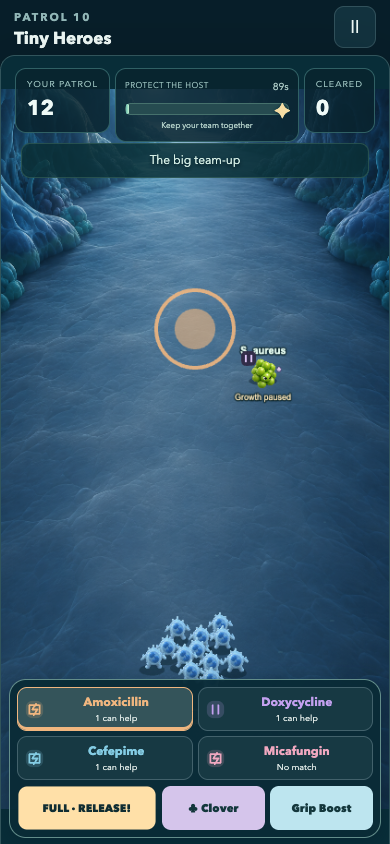
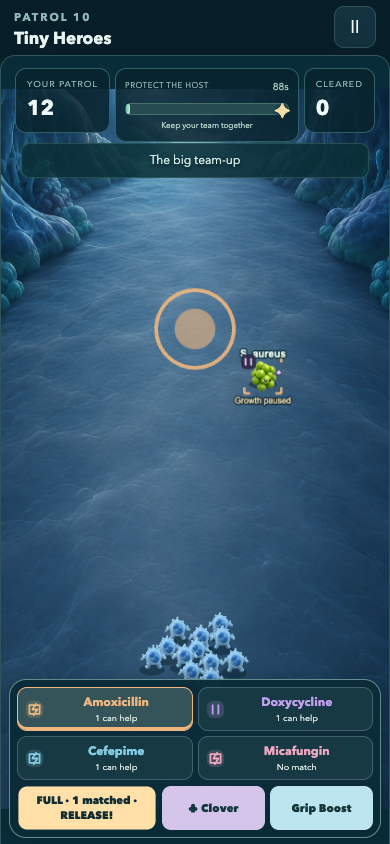
Preview medicine targets during charge in v0.3.4

Changed region(s): [[0.0923, 0.9242, 0.3385, 0.9858], [0.5846, 0.4005, 0.7692, 0.4929]]

diff --git a/src/game.ts b/src/game.ts
@@ -1,7 +1,7 @@
 import {rosterOption} from './roster';
 import * as Phaser from 'phaser';
 import { Patrol, BALANCE, type PatrolEvent } from './simulation';
-import { PATHOGENS, ANTIBODY_NAMES, medicineStyle } from './content';
+import { PATHOGENS, ANTIBODY_NAMES, medicineEffect, medicineStyle } from './content';
 
 
 
@@ -13,7 +13,7 @@ export interface GameHooks {
     gesture: () => void;
 }
 interface CellView { node: Phaser.GameObjects.Container; body: Phaser.GameObjects.Image; shadow: Phaser.GameObjects.Ellipse; digest: Phaser.GameObjects.Image; vesicle: Phaser.GameObjects.Graphics; membrane: Phaser.GameObjects.Graphics; birth: number }
-interface EnemyView { node: Phaser.GameObjects.Container; body: Phaser.GameObjects.Image; health: Phaser.GameObjects.Rectangle; tag: Phaser.GameObjects.Text; label: Phaser.GameObjects.Text; status: Phaser.GameObjects.Text; row: number; hitUntil: number; lastX: number; heading: number }
+interface EnemyView { preview: Phaser.GameObjects.Graphics; node: Phaser.GameObjects.Container; body: Phaser.GameObjects.Image; health: Phaser.GameObjects.Rectangle; tag: Phaser.GameObjects.Text; label: Phaser.GameObjects.Text; status: Phaser.GameObjects.Text; row: number; hitUntil: number; lastX: number; heading: number }
 interface GateView { node: Phaser.GameObjects.Container; panels: Phaser.GameObjects.Container[] }
 /** One orthographic-style perspective shared by sprites, gates, ground and input. */
 export function project(x: number, y: number) {
@@ -334,7 +334,7 @@ export class PatrolScene extends Phaser.Scene {
     drawSquad(time: number) {
         const p = this.patrol, count = p.squad;
         this.molecules.clear();
-        if(p.chargingMedicine){
+        if(p.chargingMedicine && p.phase==='playing'){
             const c=p.medicineCharge,color=p.level<3?0xb8f4d8:medicineStyle(p.medicine).color;
             this.molecules.lineStyle(4,color,.9).beginPath().arc(210,260,24+c*18,-Math.PI/2,-Math.PI/2+Math.PI*2*Math.max(.04,c)).strokePath();
             if(p.level<3){
@@ -435,8 +435,9 @@ export class PatrolScene extends Phaser.Scene {
                 const health = this.add.rectangle(-22, size * .48, 44, 3, 0xb1f1cc).setOrigin(0, .5);
                 const tag = this.add.text(size * .35, -size * .2, '', { fontFamily: 'Arial', fontSize: '10px', color: '#e4c4ff', fontStyle: 'bold', stroke: '#472965', strokeThickness: 2 });
                 const status=this.add.text(0,size*.68,'',{fontFamily:'Arial',fontSize:'9px',color:'#f7e2b7',stroke:'#09232c',strokeThickness:3,align:'center'}).setOrigin(.5);
-                const node = this.add.container(q.x, q.y, [shadow, body, label, health, tag,status]);
-                v = { node, body, health, tag, label, status, row: idx, hitUntil: 0, lastX: e.x, heading: 0 }; this.views.set(e.id, v);
+                const preview=this.add.graphics().setName('support-preview-'+e.id);
+                const node = this.add.container(q.x, q.y, [shadow, body, preview, label, health, tag,status]);
+                v = { preview, node, body, health, tag, label, status, row: idx, hitUntil: 0, lastX: e.x, heading: 0 }; this.views.set(e.id, v);
             }
             v.heading = e.x < v.lastX - .025 ? 1 : e.x > v.lastX + .025 ? 2 : 0;
             const pose = time < v.hitUntil ? 3 : v.heading;
@@ -447,6 +448,23 @@ export class PatrolScene extends Phaser.Scene {
             const localY=actor?(project(actor.x,actor.y).y-q.y)/q.scale:0;
             v.body.setDisplaySize(size*(1-swallow*.86),size*(1-swallow*.86)).setX(localX*swallow).setAlpha(1-swallow*.65);
             if(actor)v.body.y=localY*swallow;
+            v.preview.clear().setVisible(p.phase==='playing' && p.chargingMedicine && p.level>=3 && e.hp>0 && !swallow);
+            if(v.preview.visible){
+                const effect=medicineEffect(p.medicine,e.kind),radius=size*.49;
+                v.preview.setData('effect',effect.effective?effect.effect:'unaffected');
+                if(effect.effective){
+                    const color=medicineStyle(p.medicine).color;
+                    v.preview.lineStyle(2+p.medicineCharge*2,color,.85);
+                    // Brackets anticipate wall stress; pause bars anticipate growth suppression.
+                    for(const [sx,sy] of [[-1,-1],[1,-1],[-1,1],[1,1]]){
+                        v.preview.lineBetween(sx*radius,sy*(radius-9),sx*radius,sy*radius);
+                        v.preview.lineBetween(sx*radius,sy*radius,sx*(radius-9),sy*radius);
+                    }
+                    if(effect.effect==='inhibit')v.preview.lineBetween(-4,radius-6,-4,radius+4).lineBetween(4,radius-6,4,radius+4);
+                }else{
+                    v.preview.lineStyle(2,0xa8bbc0,.8).strokeCircle(0,radius,6).lineBetween(-4,radius+4,4,radius-4);
+                }
+            }
             const reaction=e.medicineReaction;
             const showReaction=reaction && reaction.until>p.time;
             v.status.setText(showReaction ? !reaction.effective ? (organism.kind==='fungus' && reaction.id!=='micafungin' || organism.kind==='bacterium' && reaction.id==='micafungin'?'No target':'Resistant') : reaction.effect==='inhibit'?'Growth paused':'Wall stress' : e.inhibited?'Growth paused':'');

diff --git a/src/main.ts b/src/main.ts
@@ -266,7 +266,8 @@ function tick(p: Patrol,force=false) {
     const b = document.querySelector<HTMLButtonElement>('#support');
     if (b) {
         const supportName=p.level<3?'Call cells':medicineStyle(p.medicine).nickname;
-        b.textContent = p.level<3 && p.squad>=30 && !p.chargingMedicine?'Squad full · 30 cells':p.chargingMedicine ? (p.level<3?'+'+Math.min(30-p.squad,1+Math.floor(p.medicineCharge*3))+' cells · '+(p.medicineCharge>=1?'RELEASE!':'Keep holding'):p.medicineCharge>=1?'FULL · RELEASE!':'Charging '+Math.round(p.medicineCharge*100)+'% · Release') : p.medicineCooldown>0?'Recharging · '+Math.ceil(p.medicineCooldown)+'s':'Hold / release · '+supportName;
+        const matches=p.enemies.filter(e=>e.hp>0&&medicineEffect(p.medicine,e.kind).effective).length;
+        b.textContent = p.level<3 && p.squad>=30 && !p.chargingMedicine?'Squad full · 30 cells':p.chargingMedicine ? (p.level<3?'+'+Math.min(30-p.squad,1+Math.floor(p.medicineCharge*3))+' cells · '+(p.medicineCharge>=1?'RELEASE!':'Keep holding'):!matches?'No match · switch support':p.medicineCharge>=1?'FULL · RELEASE!':Math.round(p.medicineCharge*100)+'% · '+matches+' matched') : p.medicineCooldown>0?'Recharging · '+Math.ceil(p.medicineCooldown)+'s':'Hold / release · '+supportName;
         b.disabled = !p.supportReady && !p.chargingMedicine;
         b.classList.toggle('charging',p.chargingMedicine);
         b.setAttribute('aria-label',p.chargingMedicine?b.textContent:'Hold to charge and release · '+supportName);

diff --git a/tests/suggested-campaign.test.ts b/tests/suggested-campaign.test.ts
@@ -1,0 +1,18 @@
+import {it,expect} from 'vitest';
+import {Patrol} from '../src/simulation';
+import {freshSave} from '../src/save';
+import {deploymentFor} from '../src/roster';
+import {settleRun} from '../src/economy';
+it('suggested squads can progress through the campaign without purchases or the optional selection room',()=>{
+ const s=freshSave();
+ for(let level=1;level<=10;level++){
+  const p=new Patrol(level);p.loadout=deploymentFor(s.roster,level,true).members;p.syncCells();
+  for(let i=0;i<1801&&p.phase==='playing';i++){
+   const e=p.enemies.filter(e=>e.y>440).sort((a,b)=>b.y-a.y)[0];
+   if(e)p.move(e.x,Math.max(460,Math.min(635,e.y+110)));else if(p.gates.some(g=>!g.used&&g.y>490))p.move(110,635);
+   p.step(.05);
+  }
+  expect(p.phase,`level ${level}: ${p.squad} cells, ${p.kills} clears`).toBe('victory');
+  settleRun(s,p,'suggested-'+level);
+ }
+});

diff --git a/src/simulation.ts b/src/simulation.ts
@@ -219,6 +219,7 @@ export class Patrol {
         // gains repeat availability instead of pretending to kill microbes.
         this.medicineCooldownTotal=this.medicine==='doxycycline'?12-4*charge:12+6*charge;
         this.medicineCooldown = this.medicineCooldownTotal; let success = false; let affected=0, resistant=0, noTarget=0; for (const e of this.enemies) {
+        if(e.hp<=0)continue;
         const effect = medicineEffect(this.medicine, e.kind);
         if(effect.effective)affected++;else if(PATHOGENS.find(p=>p.id===e.kind)?.susceptibility[this.medicine]==='not-targeted')noTarget++;else resistant++;
         e.medicineReaction = { id: this.medicine, until: this.time + 2.2, effective: effect.effective, effect: effect.effect };

diff --git a/tests/charge.test.ts b/tests/charge.test.ts
@@ -35,3 +35,7 @@ it('early calls cancel safely, tap recruits one, and terminal patrols reject cal
  p.medicineCooldown=0;p.beginMedicineCharge();p.phase='defeat';expect(p.releaseMedicineCharge()).toBe(false);expect(p.squad).toBe(13);
  expect(p.useMedicine(1)).toBe(false);
 });
+it('medicine feedback excludes already-cleared enemies waiting for cleanup',()=>{
+ const p=fixture();p.spawn('dual-resistant');p.enemies[1].hp=0;p.useMedicine();
+ const event=p.events.find(e=>e.type==='medicine');expect(event?.text).toContain('1 wall stress');expect(event?.text).not.toContain('resistant');expect(p.enemies[1].medicineReaction).toBeUndefined();
+});

diff --git a/handoff/PROJECT_HANDOFF.md b/handoff/PROJECT_HANDOFF.md
@@ -3,11 +3,11 @@
 ## Status and priority
 User explicitly resumed development on September23,2026 after opening this local project. Development and verified deployments are authorized within AGENTS.md scope and usage cutoffs. The ACTIVE heartbeat `resume-biology-dash-after-usage-reset` is explicitly authorized to resume development, commit/push verified milestones and deploy verified releases to the existing Vercel demo. The earlier checks-only restriction is superseded. No chat/account database manipulation is needed.
 
-Current application/package version: **0.3.3**. Last verified production: https://biology-dash-public-demo.vercel.app/.
-Deployment: `dpl_D4DXk3oixJv7ajSqr4nAmp4pDfXh` (READY when verified).
-Immutable URL: https://biology-dash-public-demo-2zquhq33i-applefound.vercel.app.
-Service worker cache: `biology-069dd1db6bf6`.
-No pending application changes after0.3.3. Primary launch paths bypass configuration; optional Patrol setup remains on map/results. Suggested squads adapt to unlocks; manual lineups are persisted.
+Current application/package version: **0.3.4**. Last verified production: https://biology-dash-public-demo.vercel.app/.
+Deployment: `dpl_6jqPQcvXrUpUNvmsxrvp8FERGpBS` (READY when verified).
+Immutable URL: https://biology-dash-public-demo-gszf22o18-applefound.vercel.app.
+Service worker cache: `biology-5bd970f878d0`.
+No pending application changes after0.3.4. Primary launch paths bypass configuration; optional Patrol setup remains on map/results. Suggested squads adapt to unlocks; manual lineups are persisted.
 
 ## What exists
 Portrait Phaser4 + TypeScript + Vite web game, ten90-second levels. Kawaii elevated rear-view2.5D sprites with directional/hit frames; individually rendered defenders, organic formations, two-axis movement, single/pair gates with recruit/reach/tempo/shield/tradeoffs. Local approach/wrap/digest animations tied to actual cell-target interactions. Plasma antibody binding/opsonization and external medicine mechanisms, named microbes and isolate susceptibility. Explicit educational abstractions and evidence in MEDICAL_EVIDENCE.md.
@@ -27,8 +27,10 @@ v0.3.2: optional reinforcement hold/release in Patrols1–2, with one-to-four ar
 
 v0.3.3: configuration is optional for all patrols. Play/Next/map level cards launch directly. Suggested squads add owned, level-appropriate roles; manual squads and a restore-suggestions option persist. B-cell selection is optional in setup. Fresh welcome stays uncluttered.
 
+v0.3.4: charged medicine previews show compatible microbes, wall/growth distinctions and no-match feedback. Preview cleanup verified through release, switch, pause and victory; suggested-squad campaign simulation completes all ten levels without purchases or selection-room use.
+
 ## Validation at last release
-117 unit tests, typecheck and production build passed. Latest browser tests: breach-warning (320px including medicine kit), input-performance (touch/crowd), full local production patrol/rewards/reload/offline, public version and cache-upgrade. Prior startup/opening tests remain recorded for0.2.3. Production exact-byte files/version manifest/no-index+robots verified. Phone Settings/desktop version labels show0.3.3. Returning service-worker client kept42Coins, roster/upgrades/loadout/transactions and reloaded offline. Screenshots/JSON artifacts retained.
+119 unit tests, typecheck and production build passed. Latest browser tests: breach-warning (320px including medicine kit), input-performance (touch/crowd), full local production patrol/rewards/reload/offline, public version and cache-upgrade. Prior startup/opening tests remain recorded for0.2.3. Production exact-byte files/version manifest/no-index+robots verified. Phone Settings/desktop version labels show0.3.4. Returning service-worker client kept42Coins, roster/upgrades/loadout/transactions and reloaded offline. Screenshots/JSON artifacts retained.
 Not verified: real-device performance, subjective sound quality, human enjoyment/retention, educational efficacy, clinician review, native readiness. The broad improvement objective is not complete.
 
 ## Resume work after explicit permission

diff --git a/RELEASES.md b/RELEASES.md
@@ -65,3 +65,9 @@ Optional Call cells action in Patrols1–2 teaches hold/release before medicatio
 Deployment dpl_D4DXk3oixJv7ajSqr4nAmp4pDfXh READY; shared https://biology-dash-public-demo.vercel.app/; immutable https://biology-dash-public-demo-2zquhq33i-applefound.vercel.app. Cache biology-069dd1db6bf6.
 
 Play, Next, level cards and shop Play now launch directly with level-appropriate support defaults. Optional Patrol setup shortcuts on map/results expose the full editor; initial welcome remains simple. Suggested squads use only owned/eligible roles without spending Coins or overwriting saved slots; manual formation/slot choices persist, with a Suggested squad restore action. Older mixed lineups migrate as custom. B-cell selection is optional.117unit tests/typecheck/build pass.320px browser checks cover direct levels2/3/4/5/7/9, no mandatory clone screen, map/result editor access, manual choice reload/restore, first-win continuation, untouched Coins/transactions and welcome. Actual production default Doxycycline/direct launch/configuration/custom-choice/Coins checks pass. Exact public files/version/no-index, phone/desktop labels and returning42Coin cached-player save/offline update pass. No subjective enjoyment or physical-device claim.
+
+## v0.3.4 — deployed September24,2026
+
+Deployment dpl_6jqPQcvXrUpUNvmsxrvp8FERGpBS READY; shared https://biology-dash-public-demo.vercel.app/; immutable https://biology-dash-public-demo-gszf22o18-applefound.vercel.app. Cache biology-5bd970f878d0.
+
+Charging medicine now previews susceptible targets using wall brackets or growth-pause bars, marks unaffected microbes and reports no-match selections. Existing isolate rules drive the feedback; no combat damage/susceptibility changes. Dead targets are excluded from discharge feedback. Preview cleanup covers cancellation, release, switch, pause and terminal frame.119unit tests/typecheck/build pass, including a full ten-level suggested-squad campaign simulation without purchases or the optional selection room.320px mixed-isolate preview and existing pointer/key/touch lifecycle checks pass. Natural90second Patrol3: victory21clears,4full discharges,1reward settlement. Public files/version/no-index, live charge/release and cached-player42Coins/roster/transactions/offline upgrade pass. No real-device, subjective audio, enjoyment or learning claim.

diff --git a/STATUS.md b/STATUS.md
@@ -211,3 +211,5 @@ September24 v0.3.2 released and verified: dpl_4KB5CNjBhUFDfCYEyKECmNXM8tnY, cach
 September24 post0.3.2 checkpoint: first-victory Next patrol now launches Patrol2 directly using the saved squad, with no repeated briefing/setup. Optional reward shop remains, later medicine preparation remains.115unit tests/typecheck/test build and320px browser first-play/transition checks pass, including unchanged reward transaction count/Coins/loadout and preserved Patrol3 preparation. Terminal fixtures accelerate victory in this focused transition test; it is not another natural90second run. Not deployed; public remains0.3.2. Eight percent five-hour remaining at checkpoint,55% weekly; reserve remaining capacity and batch release after reset1790268956.
 
 September24 v0.3.3 released and verified: user-requested optional patrol configuration implemented across all launch paths, with sensible support/squad defaults, persistent manual lineups, optional map/result setup and optional B-cell selection.117tests/typecheck/build and targeted320px first-play/configuration/reload checks pass; public files/version/controls/custom-save and cached-player offline upgrade pass. Deployment dpl_D4DXk3oixJv7ajSqr4nAmp4pDfXh, cache biology-069dd1db6bf6. Heartbeat rescheduled to17:58EDT after fresh reset1790287043; latest prompt retains optional-setup priority. Next: deepen distinct active targeting/discharge and replay variety without reintroducing upfront configuration. Full product goal remains unfinished.
+
+September24 v0.3.4 released and verified: charge target previews expose medicine compatibility directly during play, with wall/growth/unaffected shapes and no-match feedback. Fixed terminal-frame preview cleanup and dead-target feedback counts.119tests/typecheck/build,320px mixed-isolate/lifecycle fixtures, full natural charged Patrol3 and actual public charge/release pass. Suggested-squad simulation completes all ten levels without purchases or optional affinity selection (bounded interception policy, not human usability evidence). Live version/files/cache/save/offline verified; deployment dpl_6jqPQcvXrUpUNvmsxrvp8FERGpBS, cache biology-5bd970f878d0. Next deepen distinct active discharge/targeting and visible upgrades while preserving optional configuration. Full continuous product objective remains ongoing.

diff --git a/GAME_DESIGN.md b/GAME_DESIGN.md
@@ -80,3 +80,6 @@ Next patrol after Patrol1 launches Patrol2 immediately with the saved lineup. Re
 
 ## Optional patrol configuration — September24
 Play, map level cards, shop Play and Next patrol launch immediately using level-appropriate support defaults. Advanced configuration is an explicit optional Patrol setup action on the returning-player map and result screen. The initial welcome stays Play-only plus Settings. B-cell selection is optional inside setup rather than a mandatory interruption. Suggested squads use only owned, level-appropriate cells: three Macrophages after unlocking, two Plasma cells fromPatrol5, and one of each purchased Neutrophil variant where available. Suggestions do not overwrite saved slots or spend Coins. Manual formations/slot swaps persist customLoadout, including deliberately all-Neutrophil teams. Older mixed lineups are treated as custom; missing/default lineups use suggestions. Suggested squad restores automatic choices. Save schema remains4 with an additive flag.
+
+## Charge target preview — September24
+While medicine support charges, susceptible microbes receive wall-stress brackets or growth-pause bars; unaffected microbes receive a quiet slashed-circle mark. The same existing isolate susceptibility rules drive previews and actual effects. The button reports matching targets and identifies no-match selections. Preview shapes clear on discharge, cancel, pause, switching, swallowed/dead targets and patrol end. Reduced motion uses the same static information. These are interface predictions using fictional isolate data, not clinical treatment recommendations. Medicine feedback excludes already-cleared enemies. No new targeting control or configuration step.

diff --git a/ROADMAP.md b/ROADMAP.md
@@ -3,7 +3,7 @@
 Authority: handoff/requirements/CONTINUOUS_PRODUCT_GOAL.md preserves the full user objective. This backlog is sequencing, not a reduced definition of success.
 
 1. Completed: charged-support v0.3.0 verified and deployed. Continue with the next priorities below; the full goal is ongoing.
-2. First-run launch simplification and faster catch verified and deployed in0.3.1. Optional first30seconds reinforcement hold/release verified and deployed in0.3.2. All primary launch paths now bypass setup; optional map/result setup and suggested/custom squads verified and released in0.3.3. Next deepen distinct active targeting without adding upfront choices.
+2. First-run launch simplification and faster catch verified and deployed in0.3.1. Optional first30seconds reinforcement hold/release verified and deployed in0.3.2. All primary launch paths now bypass setup; optional map/result setup and suggested/custom squads verified and released in0.3.3. Charge target previews are verified and deployed in0.3.4; next deepen distinct discharge/targeting and visible upgrades without adding upfront choices.
 3. Differentiate weapon targeting/discharge and visible upgrades; test tap-versus-full-charge tradeoffs across enemy mixes and phone layouts.
 4. Expand progression and replay variety with meaningful host-defense/drug combinations, original environments and encounters; retain readable crowds and restrained sound.
 5. Add source-checked adaptive defenses, infected-cell targets, memory/vaccination and appropriate new therapeutic classes in tested increments. Do not turn biological suggestions into unsourced clinical claims.

diff --git a/START_HERE.md b/START_HERE.md
@@ -5,13 +5,13 @@ This folder is the project. Keep using:
 
 After signing into the new account, open this folder as a local Codex project if it is not already listed. Send:
 
-> Resume Biology Dash. Read AGENTS.md and handoff/PROJECT_HANDOFF.md, then continue from the verified v0.3.3 checkpoint. Keep the existing scope and 5% usage cutoffs.
+> Resume Biology Dash. Read AGENTS.md and handoff/PROJECT_HANDOFF.md, then continue from the verified v0.3.4 checkpoint. Keep the existing scope and 5% usage cutoffs.
 
 That message explicitly lifts the development hold. Opening the folder alone does not.
 
 Codex's project instructions in AGENTS.md point to the complete handoff, so no old chat, attachment upload, or manual context reconstruction is needed. Zero-click account-to-account chat/sidebar migration is not verified or promised.
 
-- **Live:** https://biology-dash-public-demo.vercel.app/ — v0.3.3, last verified September24,2026.
+- **Live:** https://biology-dash-public-demo.vercel.app/ — v0.3.4, last verified September24,2026.
 - **State:** explicitly resumed by user September23,2026; automatic reset-time resumption, development, milestone commits/pushes and verified releases are authorized. See STATUS.md for current work.
 - **Agent context:** [PROJECT_HANDOFF.md](handoff/PROJECT_HANDOFF.md).
 - **Original requests:** handoff/requirements (historical; newer naming/web-only/hold instructions take precedence).
